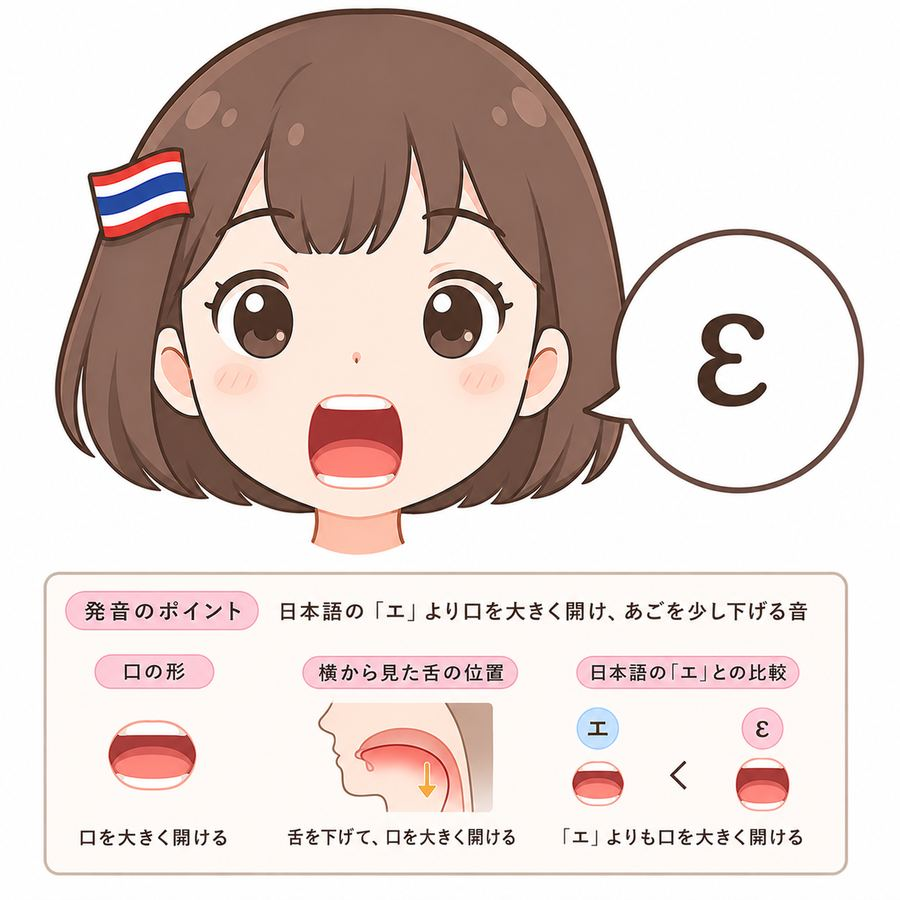
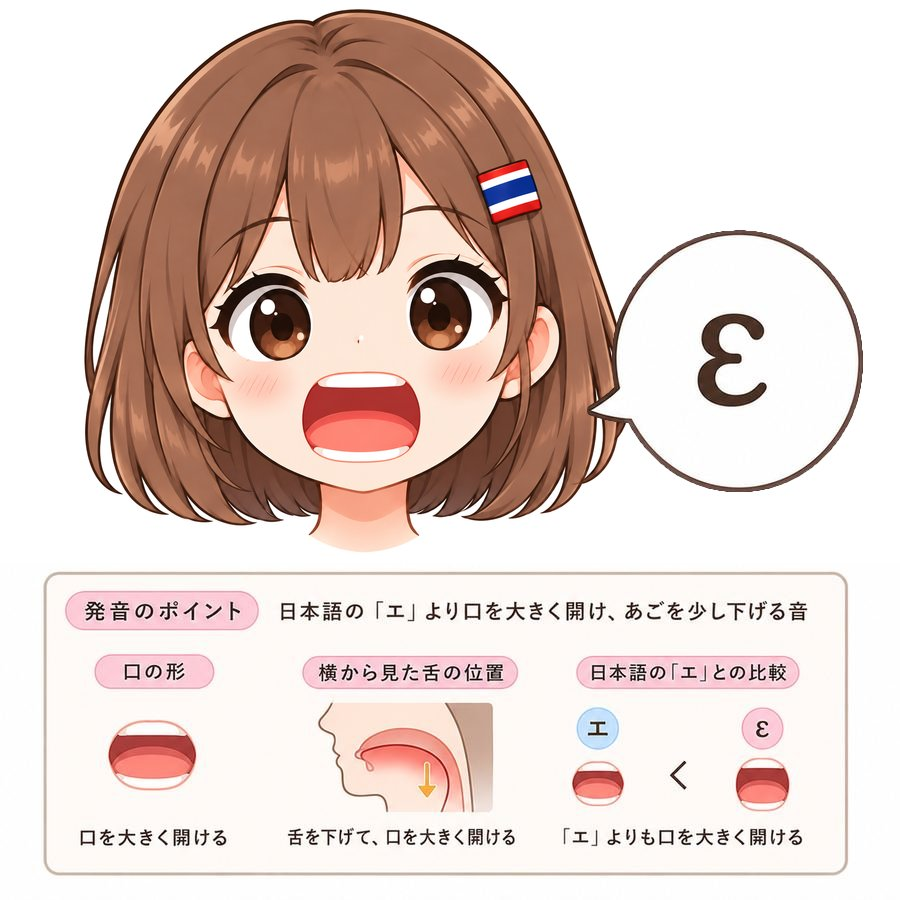
母音の口の形イラスト16枚のキャラを声調イラストのキャラに統一
- vowel_*.jpg 16枚(単母音9・ŋ・二重母音6)の上半分の顔を、声調イラストと同じキャラに差し替え
- 下半分の説明図・吹き出しの発音記号・矢印は元画像から切り抜いてそのまま使用
- 画像サイズ・形式・ファイル名は変更なし(単母音900x900、二重母音900x720、jpg)
- APP_VERSION / SW_VERSION を 2026-10-07a に更新

Changed region(s): [[0.0622, 0.0, 0.7156, 0.6222]]

diff --git a/app.html b/app.html
@@ -1427,7 +1427,7 @@ const fRO = s => s ? s.replace(/\{PR}/g, PT[st.gender].ro).replace(/\{PSR}/g, PT
 async function sto_get(k){ try{ const v=localStorage.getItem(k); return v?JSON.parse(v):null; }catch(e){ return null; } }
 async function sto_set(k,v){ try{ localStorage.setItem(k,JSON.stringify(v)); }catch(e){} }
 // アプリのバージョン。更新のたびにこの値を変更してください(日付など分かりやすいものでOK)
-const APP_VERSION = '2026-10-03j';
+const APP_VERSION = '2026-10-07a';
 {
   const vl=document.getElementById('verLabel');
   if(vl) vl.textContent='v'+APP_VERSION;

diff --git a/sw.js b/sw.js
@@ -1,7 +1,7 @@
 // Thai Pocket Cards Service Worker
 // NOTE: Bump SW_VERSION whenever app.html's APP_VERSION changes,
 // so returning users get the fresh file instead of a stale cached one.
-const SW_VERSION = '2026-10-03j';
+const SW_VERSION = '2026-10-07a';
 const CACHE_NAME = `taka-thaipocket-${SW_VERSION}`;
 
 const APP_SHELL = [
